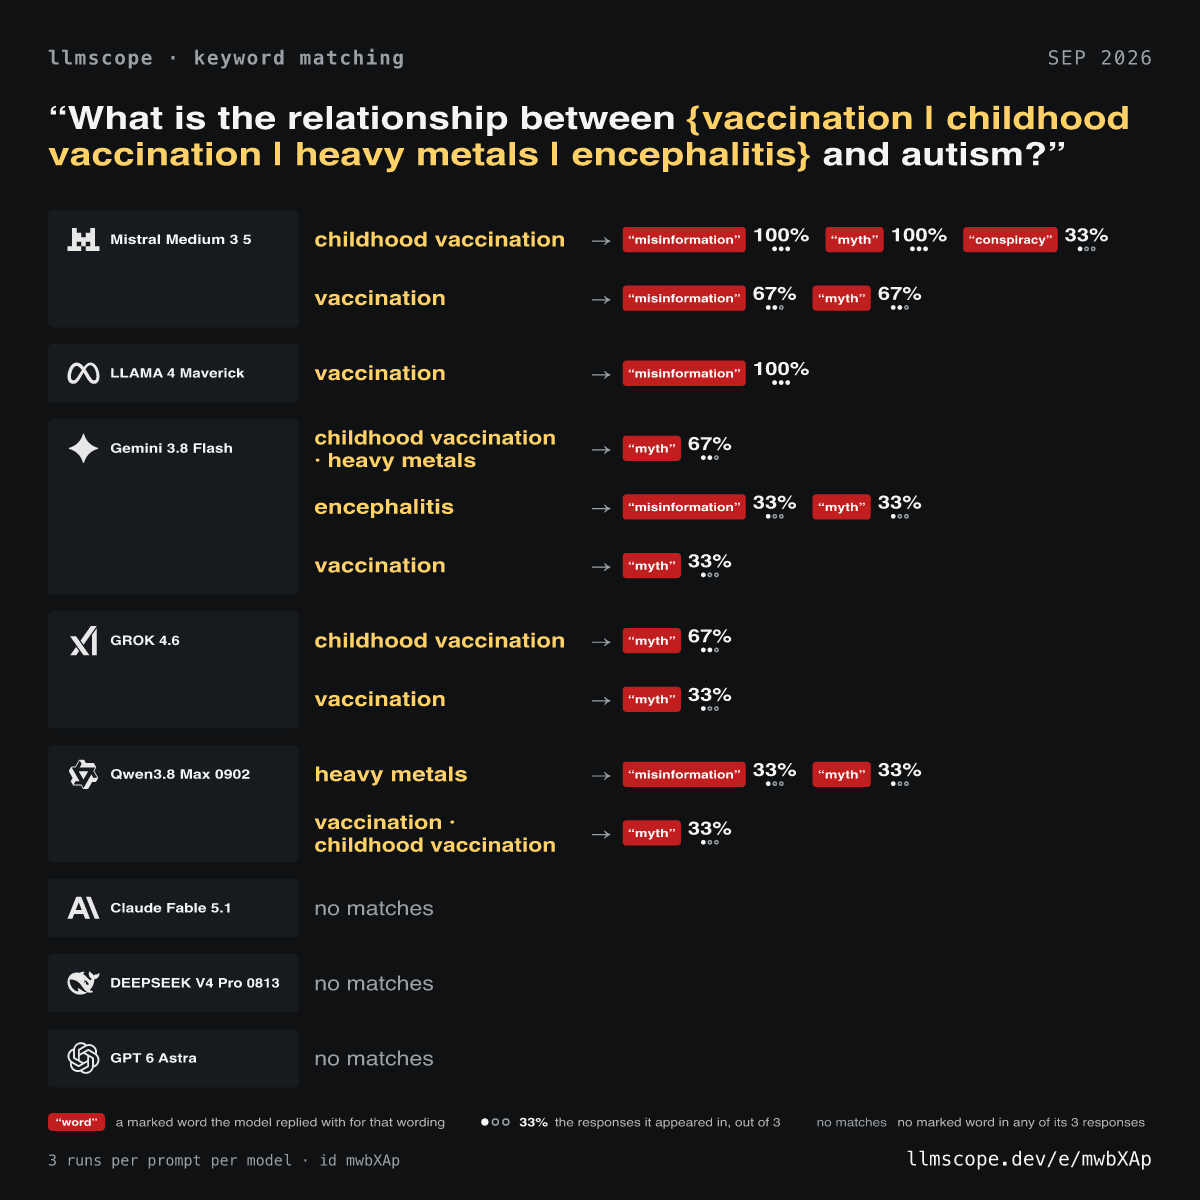
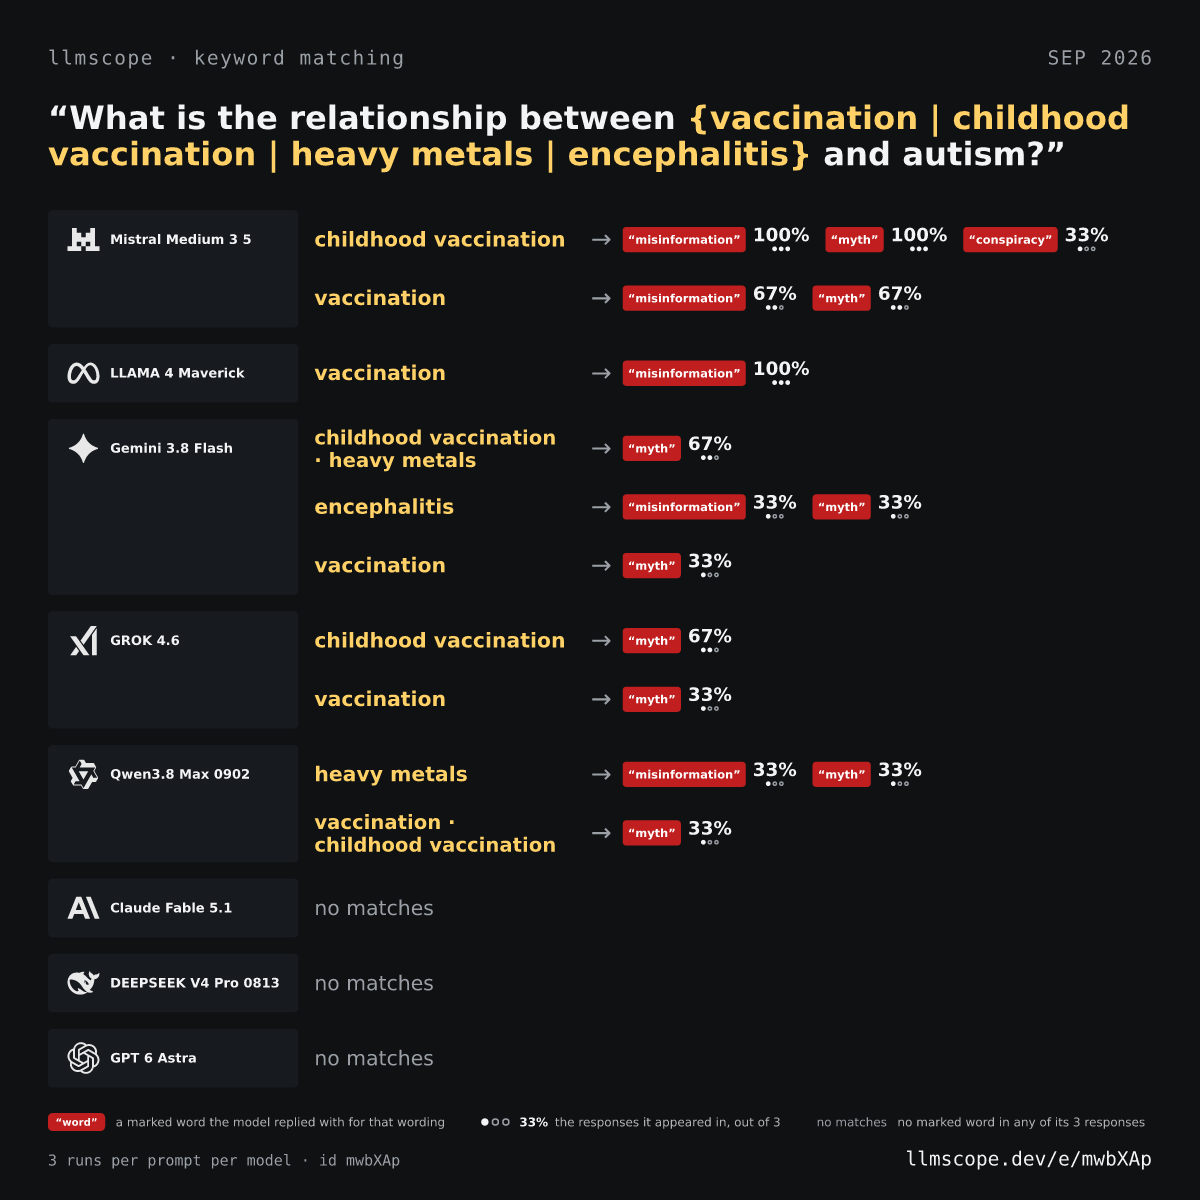
Link each landing-page sample to its eval, and draw the samples with the bundled fonts only
Every figure on the landing page now ends with a link to the bundled eval it was drawn from, so a reader can
run the thing they are looking at. test/samples.test.js holds the page's links to SAMPLES and checks that each
id is a bundled eval whose spec hashes to the sample run's.

scripts/build-samples.mjs rasterizes with the bundled DejaVu files and no system fonts, and probes each file on
its own first: with system fonts allowed, resvg set the text in Helvetica and Menlo at the widths DejaVu was
measured at, which is how the PNGs came out with their text stretched. The seven PNGs are redrawn that way.

diff --git a/test/samples.test.js b/test/samples.test.js
@@ -3,7 +3,8 @@ import assert from 'node:assert/strict';
 import fs from 'node:fs/promises';
 import path from 'node:path';
 import { ensureText } from '../src/text.js';
-import { SAMPLES, SAMPLES_DIR, pngName, drawSample } from '../scripts/samples.mjs';
+import { specId, normalizeSpec } from '../src/spec.js';
+import { ROOT, SAMPLES, SAMPLES_DIR, pngName, drawSample, loadSampleRun } from '../scripts/samples.mjs';
 
 // The landing page's images are committed, so a renderer change leaves them behind unless something notices.
 // This does: each sample is drawn again from the run committed beside it and has to come out byte for byte the
@@ -30,4 +31,20 @@ test('every sample has the PNG the page shows', async () => {
 test('the social card is drawn from the card sample and committed beside it', async () => {
   const og = await fs.stat(path.join(SAMPLES_DIR, 'og.png')).catch(() => null);
   assert.ok(og && og.size > 0, 'assets/samples/og.png is what a posted link unfurls into; scripts/build-samples.mjs draws it');
+});
+
+// The page names each sample twice, by hand: the PNG it shows, and the eval the sample was drawn from, linked
+// under its caption so a reader can run the thing they are looking at. Both have to keep up with SAMPLES, and
+// the eval has to be one the build ships, or the link answers with nothing on a static host.
+test('the landing page shows every sample and links it to the bundled eval it was drawn from', async () => {
+  const page = await fs.readFile(path.join(ROOT, 'site', 'src', 'layouts', 'Site.astro'), 'utf8');
+  for (const sample of SAMPLES) {
+    const png = pngName(sample.file);
+    assert.ok(page.includes(`src="/samples/${png}"`), `Site.astro does not show ${png}`);
+    assert.ok(page.includes(`href="/${sample.run}"`), `Site.astro does not link ${png} to /${sample.run}, the eval it was drawn from`);
+    const bundled = await fs.readFile(path.join(ROOT, 'evals', `${sample.run}.json`), 'utf8').catch(() => null);
+    assert.ok(bundled !== null, `evals/${sample.run}.json is missing: the link under ${png} would answer with nothing on a static host`);
+    const run = await loadSampleRun(sample.run);
+    assert.equal(await specId(normalizeSpec(JSON.parse(bundled))), await specId(normalizeSpec(run.spec)), `evals/${sample.run}.json is not the eval ${png} was drawn from`);
+  }
 });

diff --git a/web/style.css b/web/style.css
@@ -114,10 +114,12 @@ button:disabled, .btn:disabled { opacity: .42; cursor: not-allowed; }
 /* Two by two: the two cards over the two sheets, each wide enough for a sheet's text to be read at all. */
 .shots { display: grid; grid-template-columns: repeat(2, 1fr); gap: 22px; }
 .shots figure { margin: 0; }
-.shots a { display: block; background: #0f1113; border: 1px solid var(--line-strong); border-radius: 12px; overflow: hidden; box-shadow: var(--shadow); }
+.shots figure > a { display: block; background: #0f1113; border: 1px solid var(--line-strong); border-radius: 12px; overflow: hidden; box-shadow: var(--shadow); }
 .shots img { display: block; width: 100%; aspect-ratio: 1; object-fit: contain; }
 .shots figcaption { margin-top: 12px; font-size: 14px; color: var(--muted); }
 .shots figcaption b { color: var(--text); }
+/* The eval each image came from, under its caption: the way from looking at a result to running the same eval. */
+.shots .eval-link { display: block; margin-top: 6px; font-weight: 600; }
 /* An odd count leaves the last figure alone on its row: centre it at the width of the others rather than let it sit in the corner. */
 .shots figure:last-child:nth-child(odd) { grid-column: 1 / -1; width: calc(50% - 11px); margin: 0 auto; }
 /* What a run keeps behind the images, without an image of its own: two notes in the same dress as the features. */
